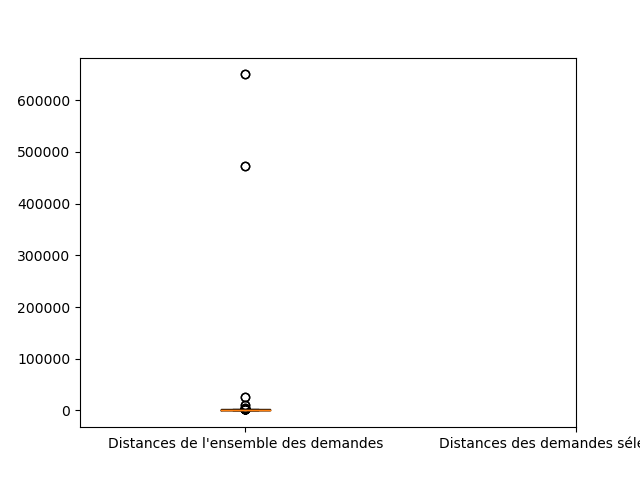
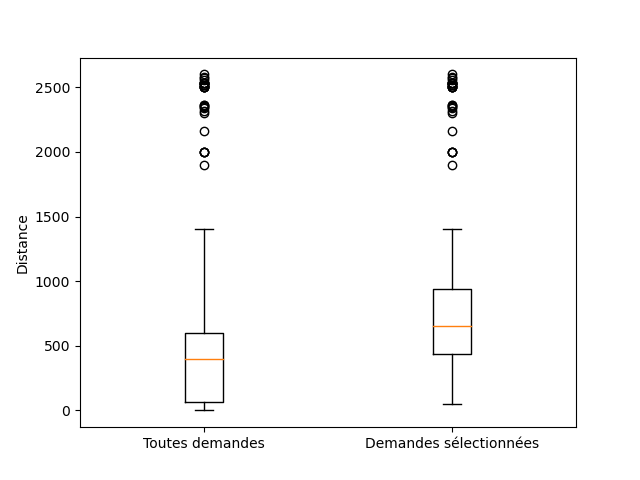
Update in analytics

diff --git a/analytics.py b/analytics.py
@@ -101,6 +101,31 @@ def mean_median_std(attributions, requests, attribute, threshold=None):
             int(np.mean(selected_attributes)), int(np.median(selected_attributes)), int(np.std(selected_attributes)))
 
 
+def distances_box_plot(attributions, requests, solution_name, threshold=None):
+    if threshold:
+        requests = [request for request in requests if request.distance < threshold]
+        attributions = [attribution for attribution in attributions if attribution.request.distance < threshold]
+    overall_distances = [request.distance for request in requests]
+    selected_distances = [attribution.request.distance for attribution in attributions]
+    plt.figure()
+    plt.boxplot([overall_distances, selected_distances])
+    boxnames = ["Toutes demandes", "Demandes sélectionnées"]
+    plt.xticks([1, 2], boxnames)
+    plt.ylabel("Distance")
+    plt.savefig(f"figures/solutions_analytics/distances-boxplot_{solution_name}")
+
+
+def shotgun_box_plot(attributions, requests, solution_name):
+    overall_shotgun = [request.shotgun_rank for request in requests]
+    selected_shotgun = [attribution.request.shotgun_rank for attribution in attributions]
+    plt.figure()
+    plt.boxplot([overall_shotgun, selected_shotgun])
+    boxnames = ["Toutes demandes", "Demandes sélectionnées"]
+    plt.xticks([1, 2], boxnames)
+    plt.ylabel("Rang au shotgun")
+    plt.savefig(f"figures/solutions_analytics/shotgun-boxplot_{solution_name}")
+
+
 def primary_criteria_overview(attributions, requests_list, solution_name, threshold=None):
     if threshold:
         requests_list = [request for request in requests_list if request.distance < threshold]
@@ -119,6 +144,7 @@ def primary_criteria_overview(attributions, requests_list, solution_name, thresh
         plt.scatter(distance, rank, color=selection, marker=scholarship)
     plt.plot([params.paris_threshold, params.paris_threshold], [0, len(requests)], 'k--', linewidth=2)
     plt.plot([params.foreign_threshold, params.foreign_threshold], [0, len(requests)], 'k-.', linewidth=2)
+    plt.xscale("log")
     # plt.title("Synthèse des critères primaires des demandes et de leur sélection")
     plt.xlabel("Distance des Ponts")
     plt.ylabel("Rang dans le shotgun")
@@ -128,7 +154,7 @@ def primary_criteria_overview(attributions, requests_list, solution_name, thresh
     square = mlines.Line2D([], [], color='k', linewidth=0, marker='s', label='Étudiant boursier')
     dashed_line = mlines.Line2D([0, 0], [0, 1], linestyle='--', linewidth=2, color='k', label='Seuil $50 km$')
     dash_dotted_line = mlines.Line2D([0, 0], [0, 1], linestyle='-.', linewidth=2, color='k', label='Seuil $800 km$')
-    plt.legend(handles=[blue_dot, red_dot, cross, square, dashed_line, dash_dotted_line], loc="upper right")
+    plt.legend(handles=[blue_dot, red_dot, cross, square, dashed_line, dash_dotted_line])
     plt.plot()
     plt.savefig(f"figures/solutions_analytics/primary-criteria-overview_{solution_name}")
 
@@ -196,20 +222,24 @@ if __name__ == "__main__":
     rooms = json_to_objects_rooms(rooms_file)
 
     print("solution score :", compute_score(attributions, dictionary_from_requests(requests)))
-    print("nombre de chambres non occupées :", sum([room.capacity for room in rooms]) - len(attributions))
+    print("number of unoccupied rooms :", sum([room.capacity for room in rooms]) - len(attributions))
 
     # Primary criteria
     print("number of requests :", len(requests))
     print("total capacity:", sum([room.capacity for room in rooms]))
+    print("number of simple rooms:", sum([True for room in rooms if room.room_type == 0]))
+    print("number of binom rooms:", sum([True for room in rooms if room.room_type == 1]))
+    print("number of double rooms:", sum([True for room in rooms if room.room_type == 2]))
     overall_distance_mean, overall_distance_median, overall_distance_std, selected_distance_mean, selected_distance_median, selected_distance_std = mean_median_std(attributions, requests, "distance", threshold=3000)
     print("overall distance mean, median and std :", overall_distance_mean, overall_distance_median, overall_distance_std)
     print("selected distance mean, median and std :", selected_distance_mean, selected_distance_median, selected_distance_std)
     _, _, _, shotgun_mean, shotgun_median, _ = mean_median_std(attributions, requests, "shotgun_rank")
     print("shotgun mean and median :", shotgun_mean, shotgun_median)
+    shotgun_box_plot(attributions, requests, instance)
     nb_distant, distant_ratio = distance_selection_ratio(attributions, requests, 800)
     print("number of distant:", nb_distant)
     print("distant (selected_ratio/overall_ratio) :", distant_ratio)
-    distances_box_plot(attributions, requests, instance)
+    distances_box_plot(attributions, requests, instance, threshold=3000)
     nb_scholarships, scholarship_ratio = scholarship_selection_ratio(attributions, requests)
     print("number of scholarships:", nb_scholarships)
     print("scholarship (selected_ratio/overall_ratio) :", scholarship_ratio)
